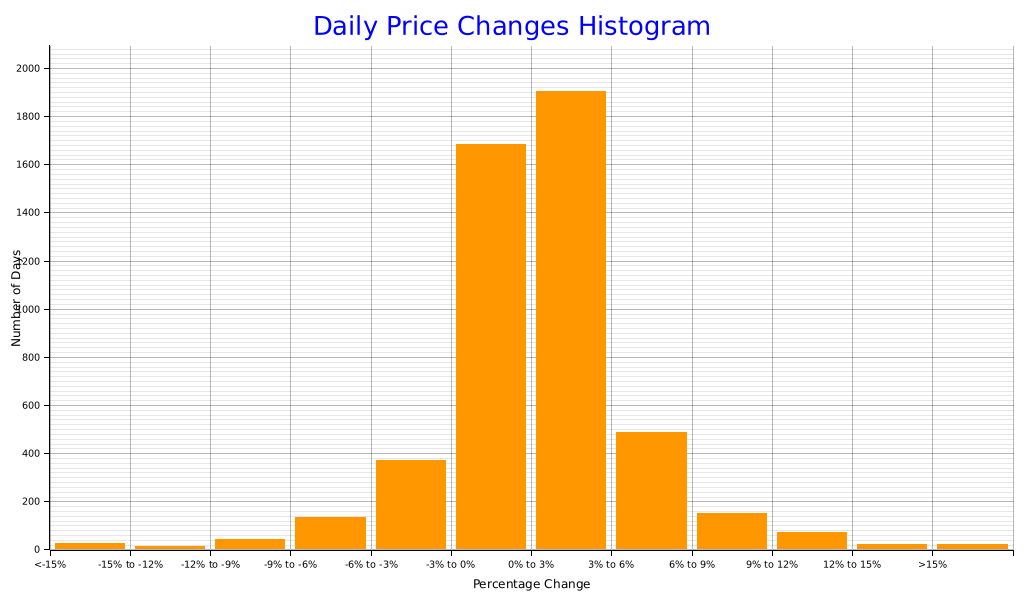
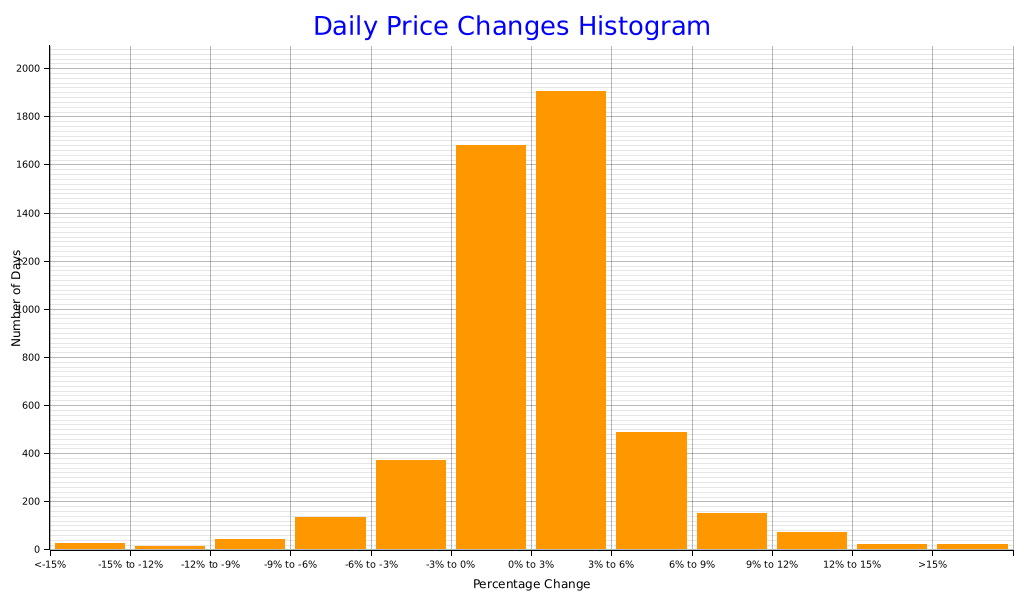
deploy: 32c38bfc33973f71076a7465fb8cd65e6d188ef2

diff --git a/index.html b/index.html
@@ -168,11 +168,11 @@
         </tr>
         <tr>
           <td>-3% to 0%</td>
-          <td>1683</td>
+          <td>1682</td>
         </tr>
         <tr>
           <td>0% to 3%</td>
-          <td>1903</td>
+          <td>1904</td>
         </tr>
         <tr>
           <td>3% to 6%</td>
@@ -225,12 +225,12 @@
             <td>105,437.20</td>
             <td>105,868.39</td>
             <td>105,264.12</td>
-            <td>105,425.26</td>
-            <td class='wma-column'>48,130.00</td>
-            <td>46.92 (0.09 %)</td>
-            <td>65,677.76 (165.2 %)</td>
+            <td>105,575.25</td>
+            <td class='wma-column'>48,130.10</td>
+            <td>47.03 (0.09 %)</td>
+            <td>65,827.75 (165.6 %)</td>
             <td>604.26 (0.5 %)</td>
-            <td>-7.20 (0.0 %)</td>
+            <td>142.78 (0.1 %)</td>
           </tr>
           <tr>
             <td>2025-06-03</td>
